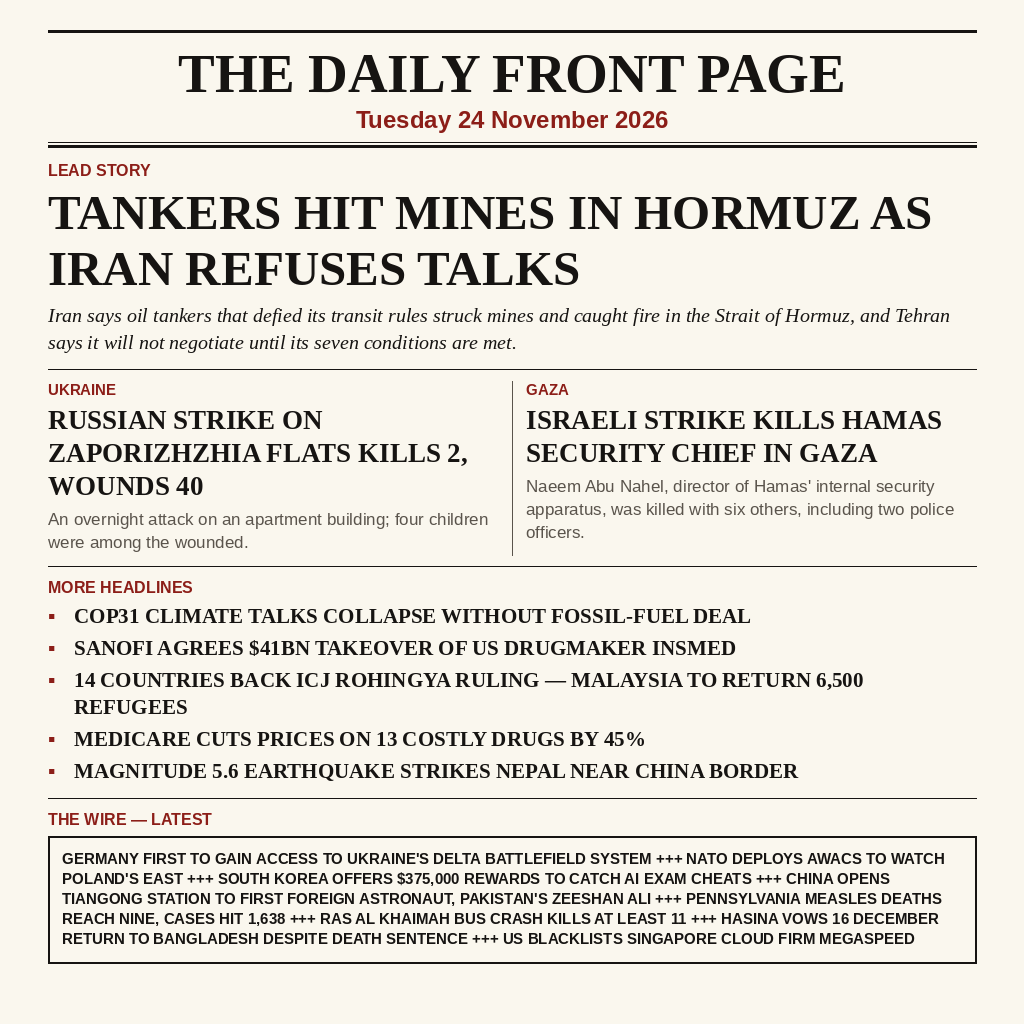
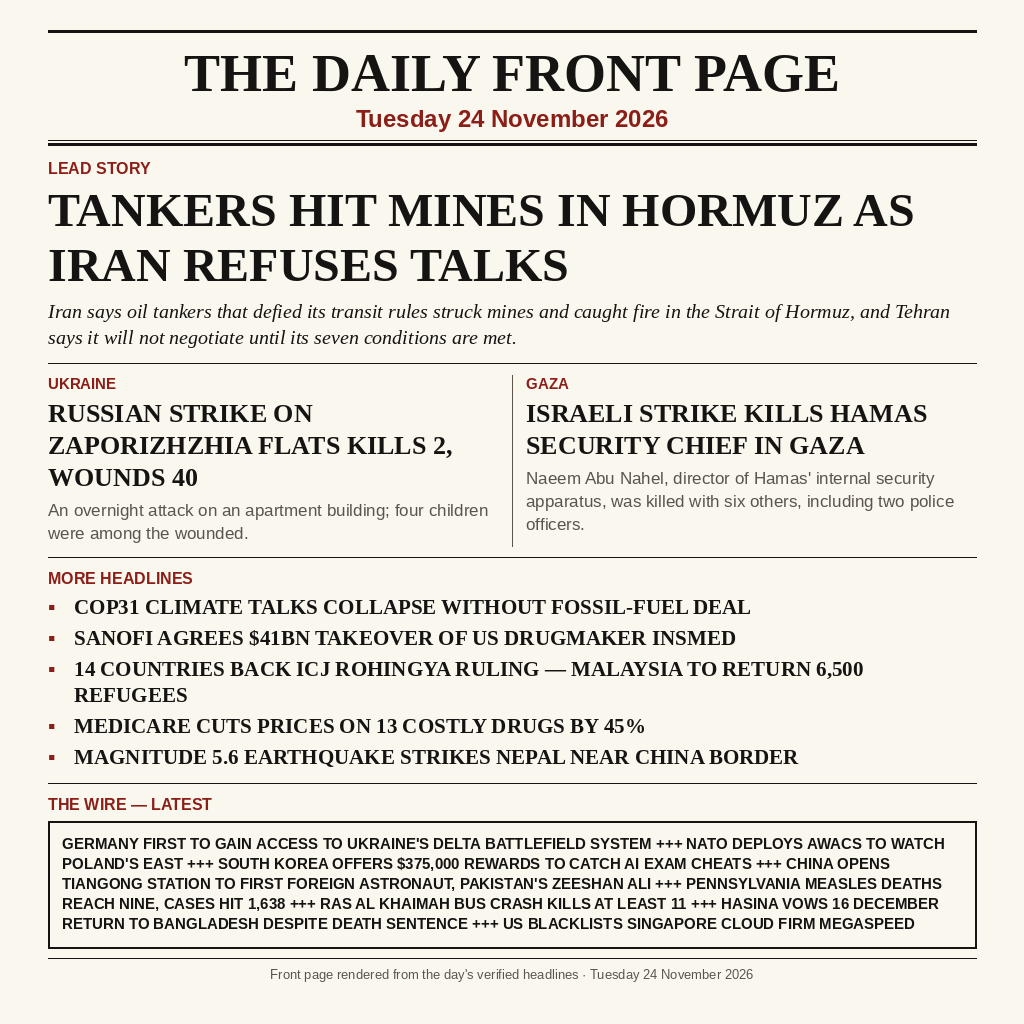
Add footer to fill front page to bottom of canvas

Changed region(s): [[0.0312, 0.0312, 0.9375, 0.9688], [0.5, 0.3438, 0.9375, 0.5312]]

diff --git a/draw.py b/draw.py
@@ -175,6 +175,14 @@ def build_layout(draw, scale):
     ops.append(("ticker", ticker_lines, ticker_font, ticker_line_h, pad, ticker_h))
     total += ticker_h
 
+    # --- Footer ------------------------------------------------------
+    total += add_gap(int(10 * s))
+    total += add_rule(1, gap_after=int(9 * s))
+    total += add_block(
+        "Front page rendered from the day's verified headlines "
+        "\u00b7 Tuesday 24 November 2026",
+        font(SANS, 14 * s), int(19 * s), align="center", color=MUTED)
+
     return ops, total
 
 
